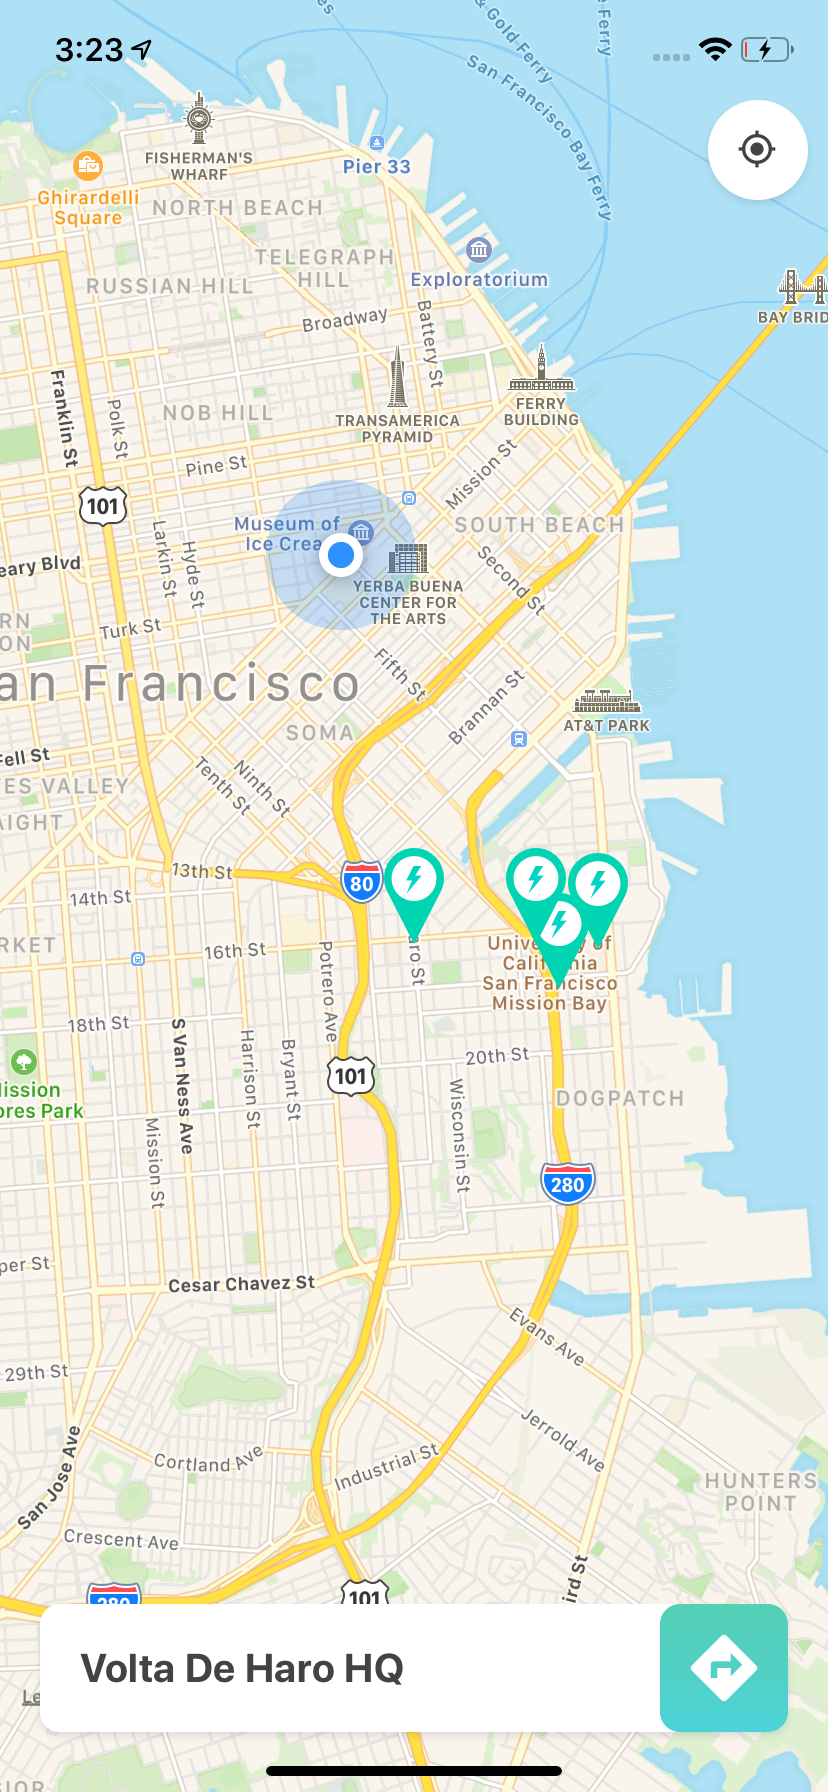
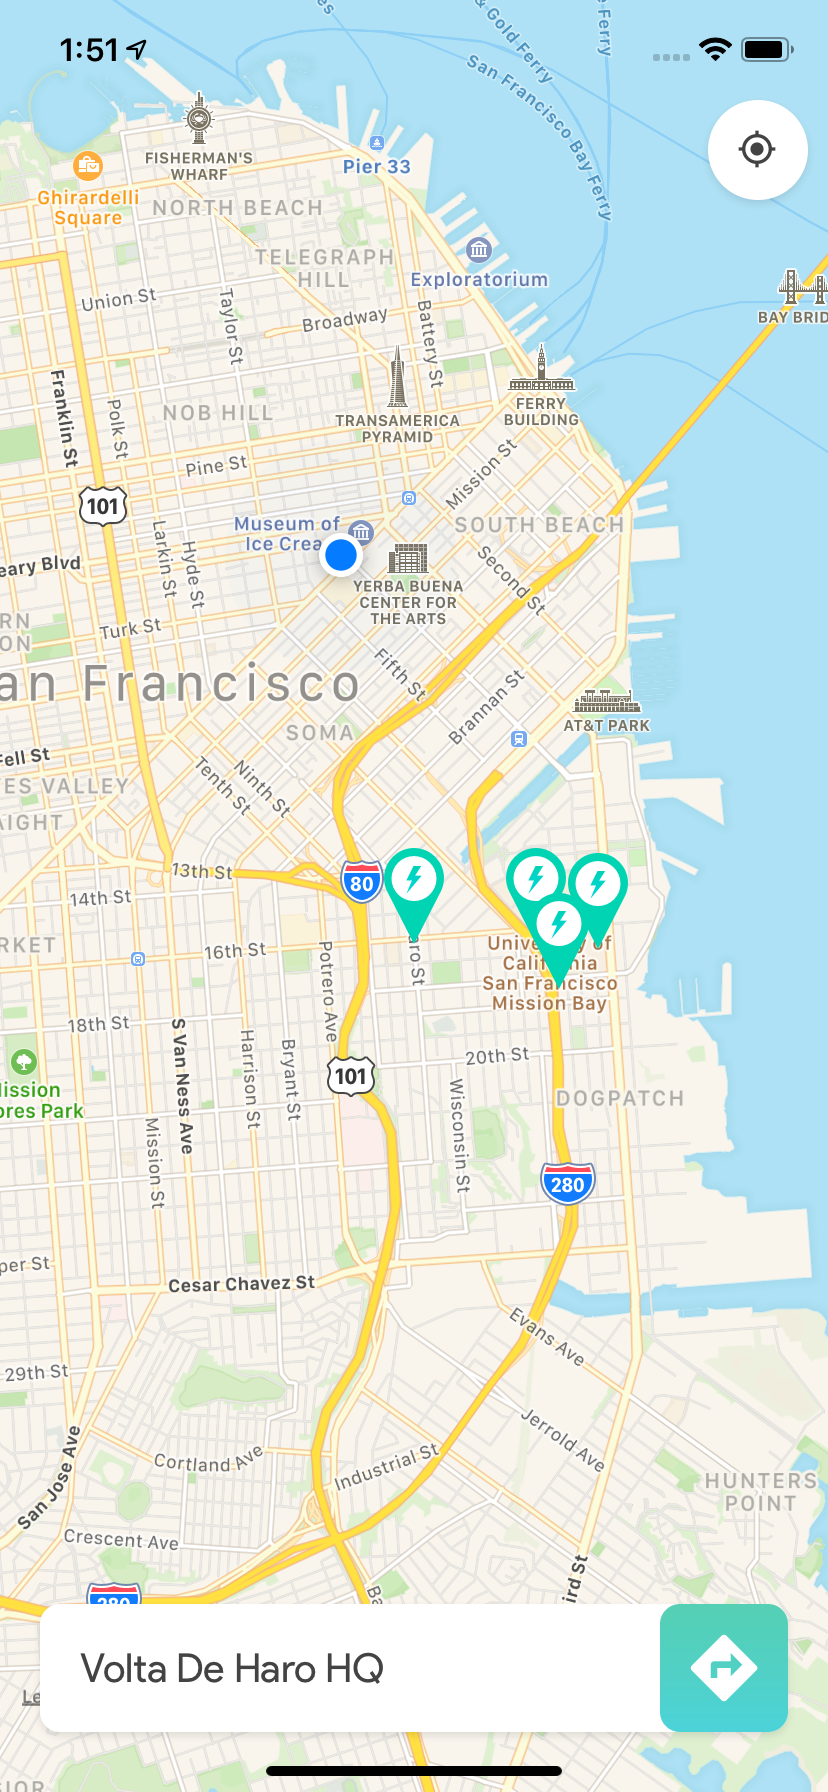
Fixed user location animation, added demo gif and did final code clean up (ready for prod.)

diff --git a/Home.js b/Home.js
@@ -1,13 +1,12 @@
 import React from 'react';
-import { StyleSheet, Text, View, Platform, Animated, Alert, Dimensions, TouchableOpacity } from 'react-native';
+import { StyleSheet, Text, View, Platform, Dimensions, TouchableOpacity } from 'react-native';
 
 import MapView from 'react-native-maps';
 import { Constants, Location, Permissions, LinearGradient } from 'expo';
 import {Icon} from 'react-native-elements';
-import { MaterialIcons, Feather, Entypo, FontAwesome } from '@expo/vector-icons';
+import { MaterialIcons } from '@expo/vector-icons';
 import axios from 'axios';
 import * as Animatable from 'react-native-animatable';
-
 let { width, height } = Dimensions.get('window');
 const ASPECT_RATIO = width / height;
 const LATITUDE_DELTA = 0.0922;
@@ -15,11 +14,13 @@ const LONGITUDE_DELTA = LATITUDE_DELTA * ASPECT_RATIO;
 
 const CARD_HEIGHT = height / 14;
 
+
 export default class Home extends React.Component {
   state = {
     stations: null,
     statInfo: {},
     isOpen: false,
+    errorMessage: null,
     region: {
       latitude: null || 37.7683336666667,
       longitude: null || -122.401718333333,
@@ -30,22 +31,25 @@ export default class Home extends React.Component {
   };
 
   _getLocationAsync = async () => {
-    let { status } = await Permissions.askAsync(Permissions.LOCATION);
-    if (status !== 'granted') {
-      this.setState({
-        errorMessage: 'Permission to access location was denied',
-      });
+    try {
+      let { status } = await Permissions.askAsync(Permissions.LOCATION);
+      if (status !== 'granted') {
+        this.setState({
+          errorMessage: 'Permission to access location was denied',
+        });
+      }
+      let location = await Location.getCurrentPositionAsync({});
+      const body = {
+        latitude: location.coords.latitude,
+        longitude: location.coords.longitude,
+        latitudeDelta: LATITUDE_DELTA,
+        longitudeDelta: LONGITUDE_DELTA,
+      }
+      this.setState({region: body})
+      this.animateToLocation(body);
+    } catch (error) {
+      console.log(error);
     }
-    let location = await Location.getCurrentPositionAsync({});
-    const body = {
-      latitude: location.coords.latitude,
-      longitude: location.coords.longitude,
-      latitudeDelta: LATITUDE_DELTA,
-      longitudeDelta: LONGITUDE_DELTA,
-    }
-    this.setState({
-      region: body,
-    });
   };
 
   componentWillMount() {
@@ -59,14 +63,16 @@ export default class Home extends React.Component {
     this.fetchPlaces();
   }
 
-
-
   fetchPlaces() {
-    axios.get(`https://api.voltaapi.com/v1/sites-metrics`)
-      .then(res => {
-        const stations = res.data;
-        this.setState({ stations: stations });
-      })
+    try{
+      axios.get(`https://api.voltaapi.com/v1/sites-metrics`)
+        .then(res => {
+          const stations = res.data;
+          this.setState({ stations: stations });
+        })
+    } catch (error) {
+      console.log(error);
+    }
   }
 
   _renderCard() {
@@ -110,15 +116,32 @@ export default class Home extends React.Component {
     )
   }
 
+  onMapReady = () => {
+    if (!this.state.ready) {
+      this.setState({ ready: true });
+    }
+  };
+
+  animateToLocation(region){
+    if(this.state.ready){
+      setTimeout(
+        () => this.map.animateToRegion(region, 500), 5
+        );
+    }
+  }
+
 
   render() {
+    const {region} = this.state.region
     return (
         <View style={styles.container}>
           <MapView
+            ref={ref => { this.map = ref; }}  
+            initialRegion={region}
             showsUserLocation={true}
             showsMyLocationButton={true}
-            // followsUserLocation={true}
-            initialRegion={this.state.region}
+            onMapReady={this.onMapReady}
+            maxZoom={16}
             style={styles.container}
           >
             {this.state.stations? this._renderCoords() : null}

diff --git a/DetailStation.js b/DetailStation.js
@@ -1,8 +1,8 @@
 import React from 'react';
-import { StyleSheet, Text, View, Platform, Animated, TouchableOpacity, Dimensions, ScrollView } from 'react-native';
-import { Header, Icon, Button, Divider } from 'react-native-elements';
+import { StyleSheet, Text, View, Platform, TouchableOpacity, Dimensions, ScrollView } from 'react-native';
+import { Icon, Divider } from 'react-native-elements';
 import MapView from 'react-native-maps';
-// import openMap from 'react-native-open-maps';
+
 import { LinearGradient } from 'expo';
 import * as Progress from 'react-native-progress';
 

diff --git a/App.js b/App.js
@@ -1,5 +1,4 @@
 import React from 'react';
-import { StyleSheet, Text, View } from 'react-native';
 import RootNavigator from './navigation/RootNavigator';
 import {Font} from 'expo';
 

diff --git a/README.md b/README.md
@@ -56,6 +56,7 @@ npm start
 - [x] Publish the app and polish README with screenshots/gif of the app
 
 ## Demo
+![Demo gif](https://github.com/bhaveshc789/v-charge/blob/master/screenshots/final.gif)
 
 ## Feedback
 
